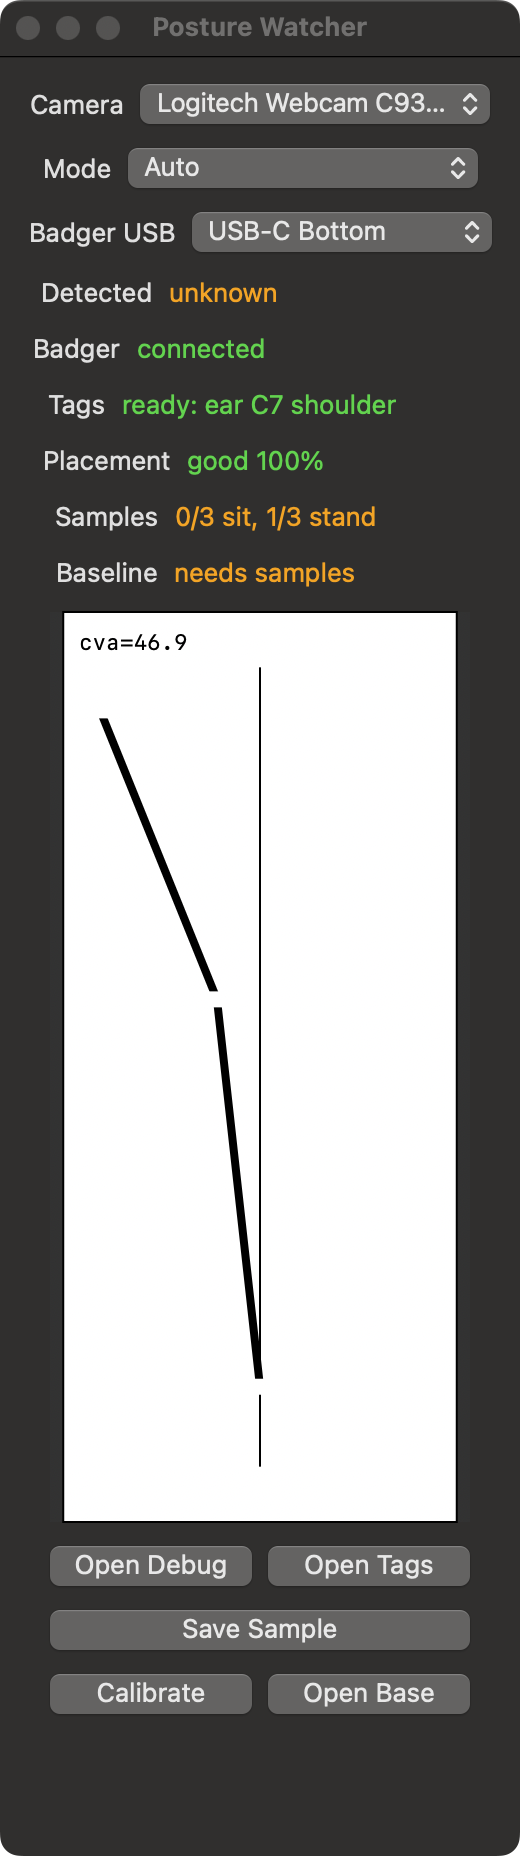
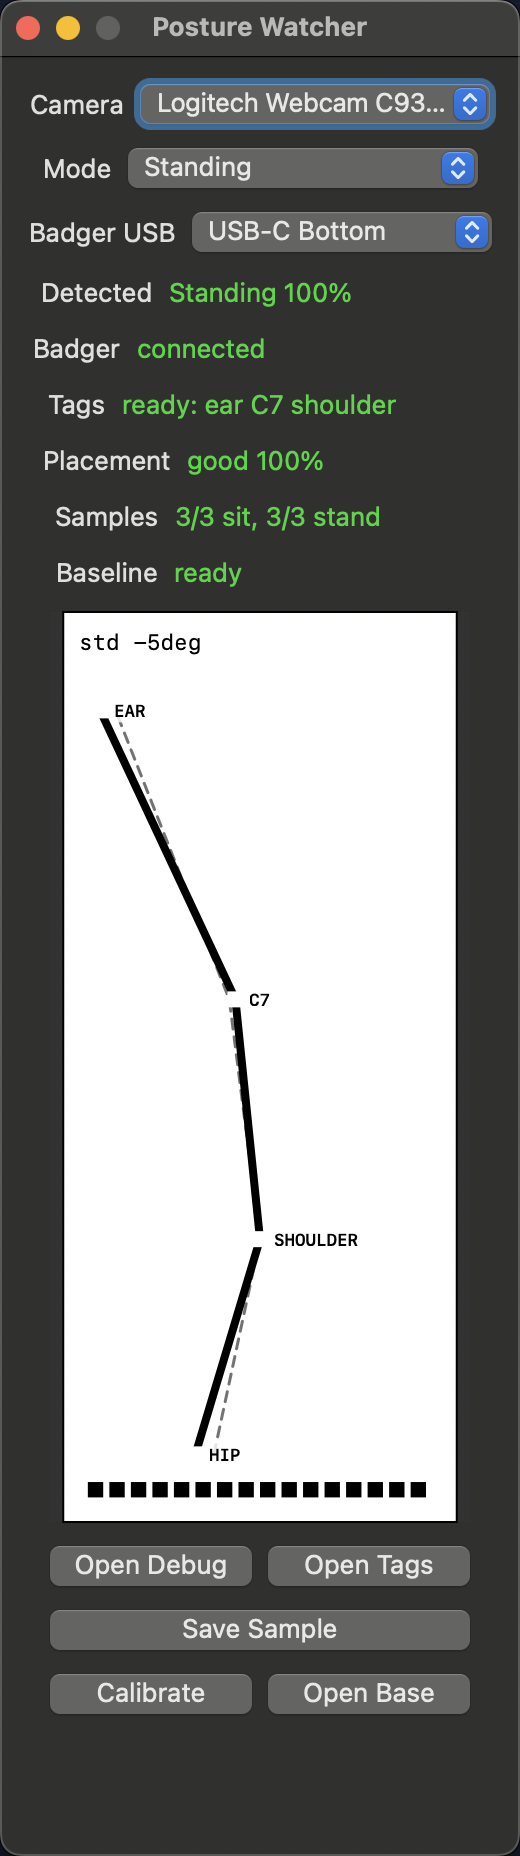
Refresh README screenshots

diff --git a/README.md b/README.md
@@ -10,7 +10,7 @@ Posture Watcher is a small end-to-end posture feedback loop:
 The goal is not to nag on every frame. The app samples slowly, averages over a rolling window, and refuses to show a posture curve when the markers are visible but anatomically implausible.
 
 <p align="center">
-  <img src="docs/screenshots/live-posture-line.jpg" width="420" alt="Live posture debug image with AprilTags and the superimposed posture line">
+  <img src="docs/screenshots/live-posture-line.png" width="420" alt="Live posture debug image with labeled AprilTags and the superimposed posture line">
 </p>
 
 ## Current State
@@ -28,9 +28,9 @@ The remaining calibration work is physical: place the tags on the actual landmar
 
 ## Gallery
 
-| Live debug overlay | macOS app tracking |
+| Live debug overlay | macOS app window |
 | --- | --- |
-| <img src="docs/screenshots/live-posture-line.jpg" width="360" alt="Live posture debug image with AprilTags and the superimposed posture line"> | <img src="docs/screenshots/posture-watcher-app-live.png" width="240" alt="Posture Watcher macOS app showing ready tags, good placement, and the mirrored Badger curve"> |
+| <img src="docs/screenshots/live-posture-line.png" width="360" alt="Live posture debug image with labeled AprilTags and the superimposed posture line"> | <img src="docs/screenshots/posture-watcher-app-live.png" width="300" alt="Posture Watcher macOS app window showing ready tags, good placement, labeled points, and the mirrored Badger curve"> |
 
 | Badger in action | Wearing the tags |
 | --- | --- |